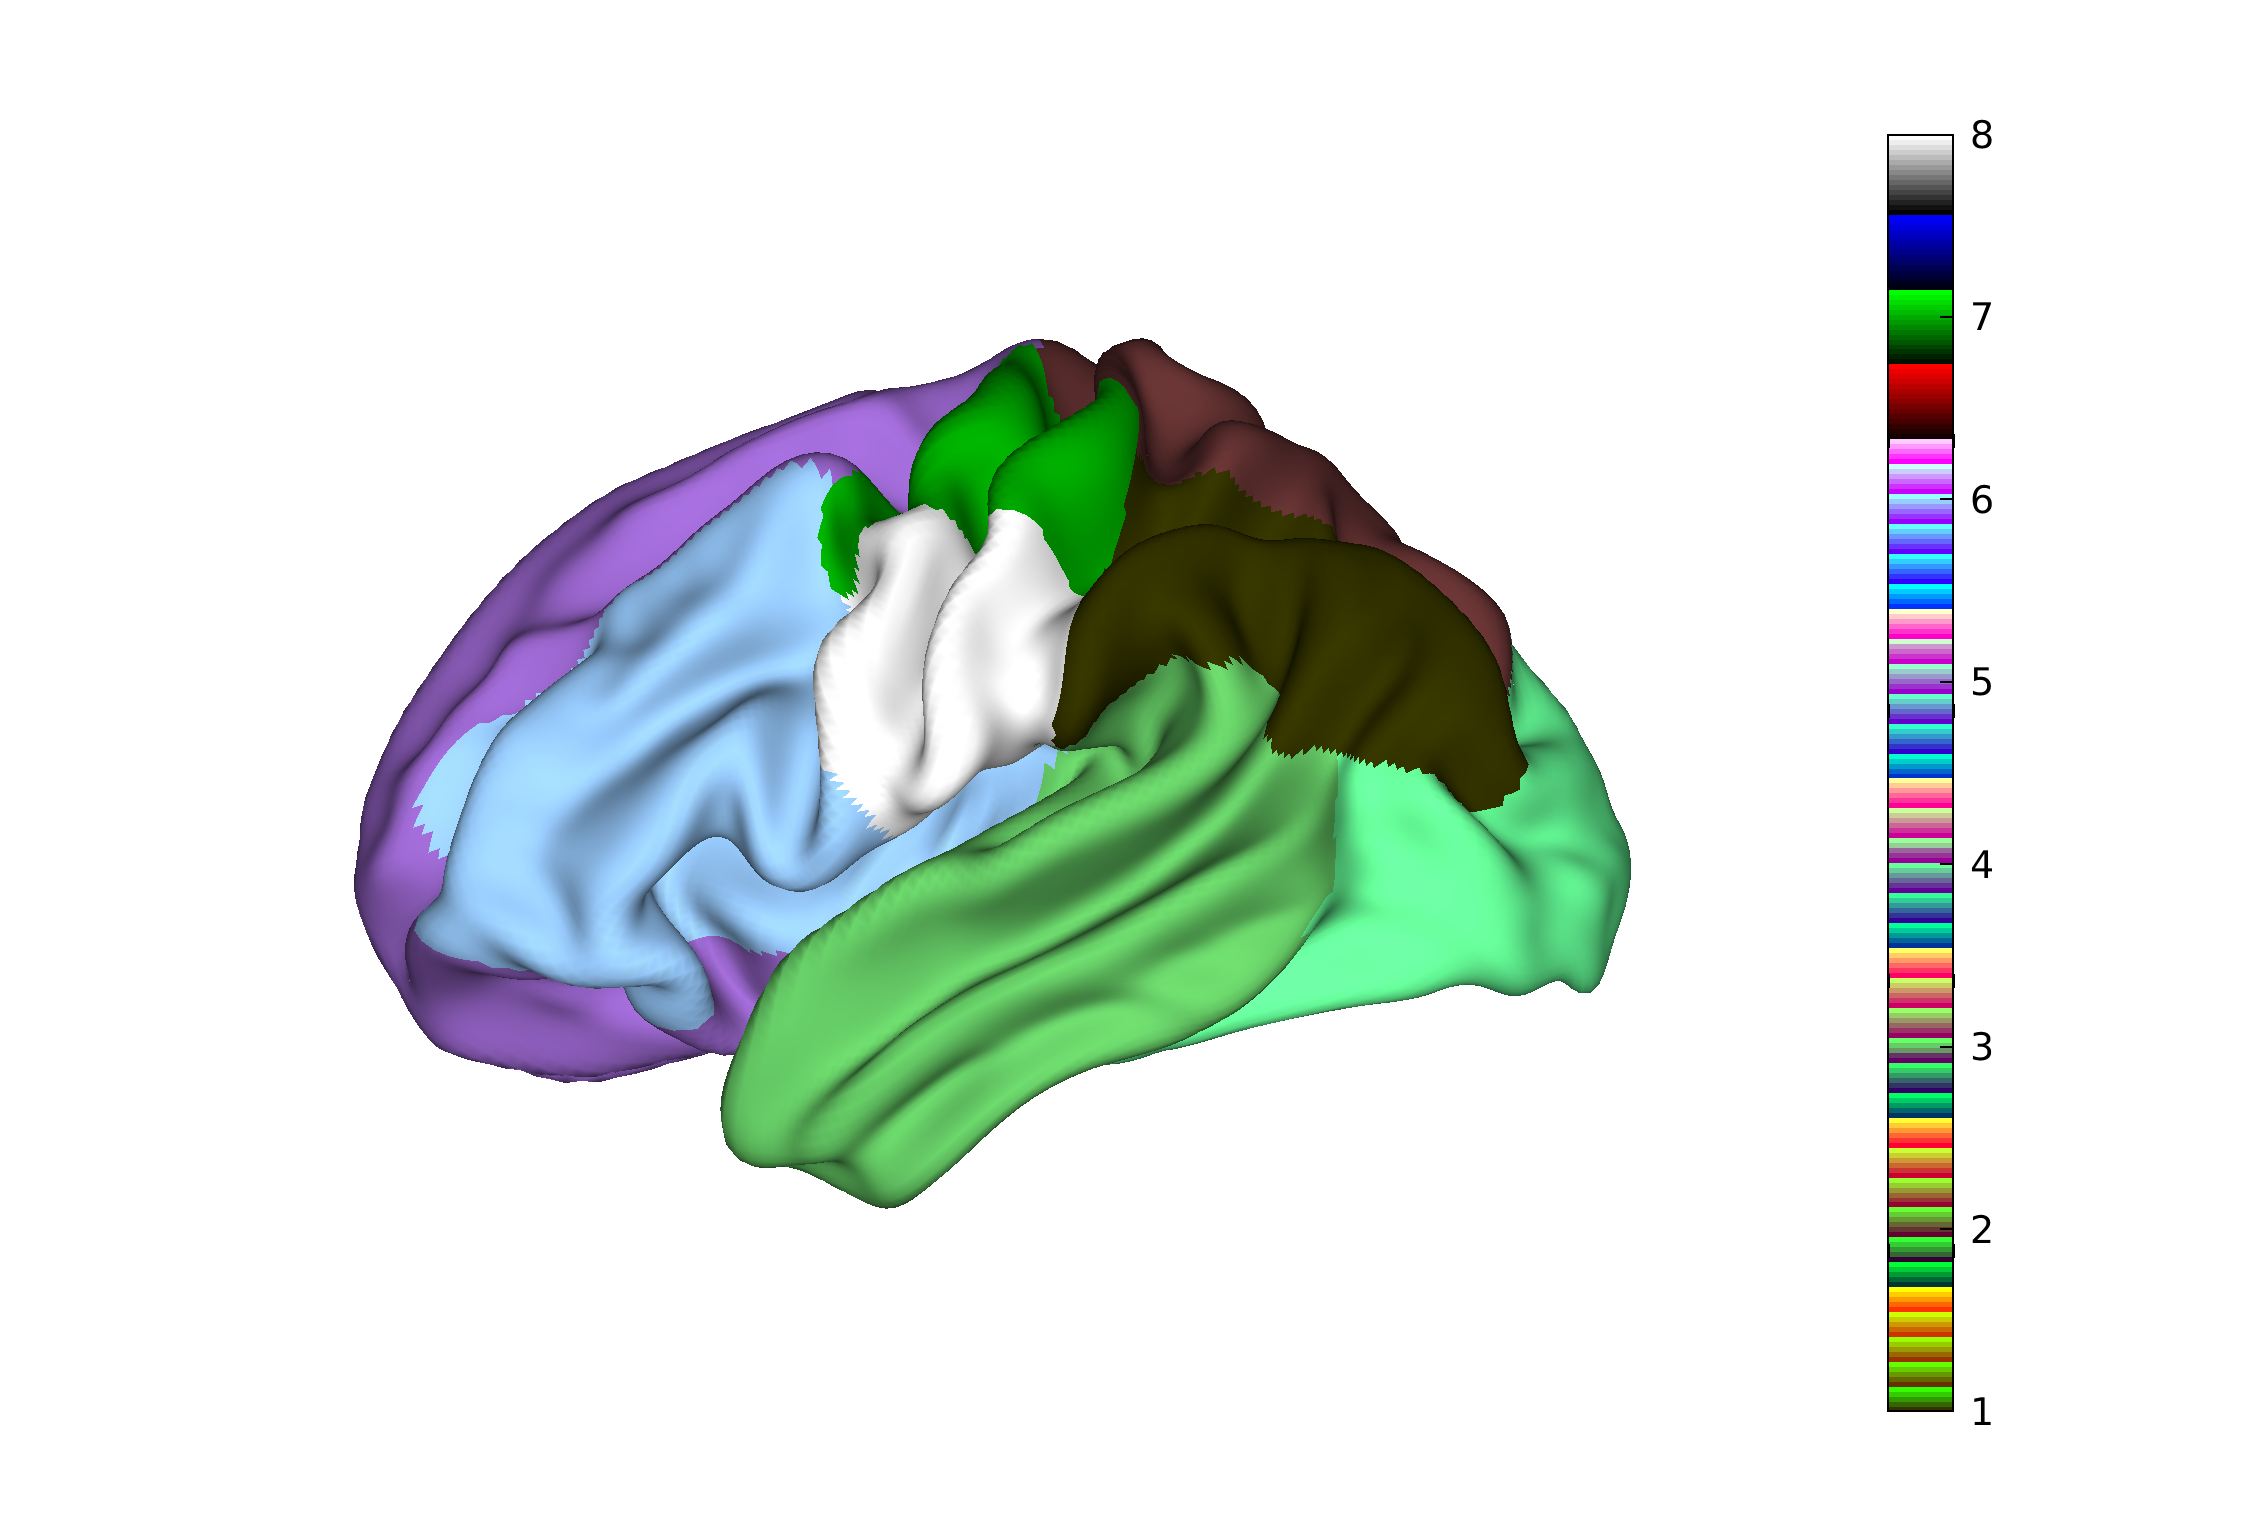
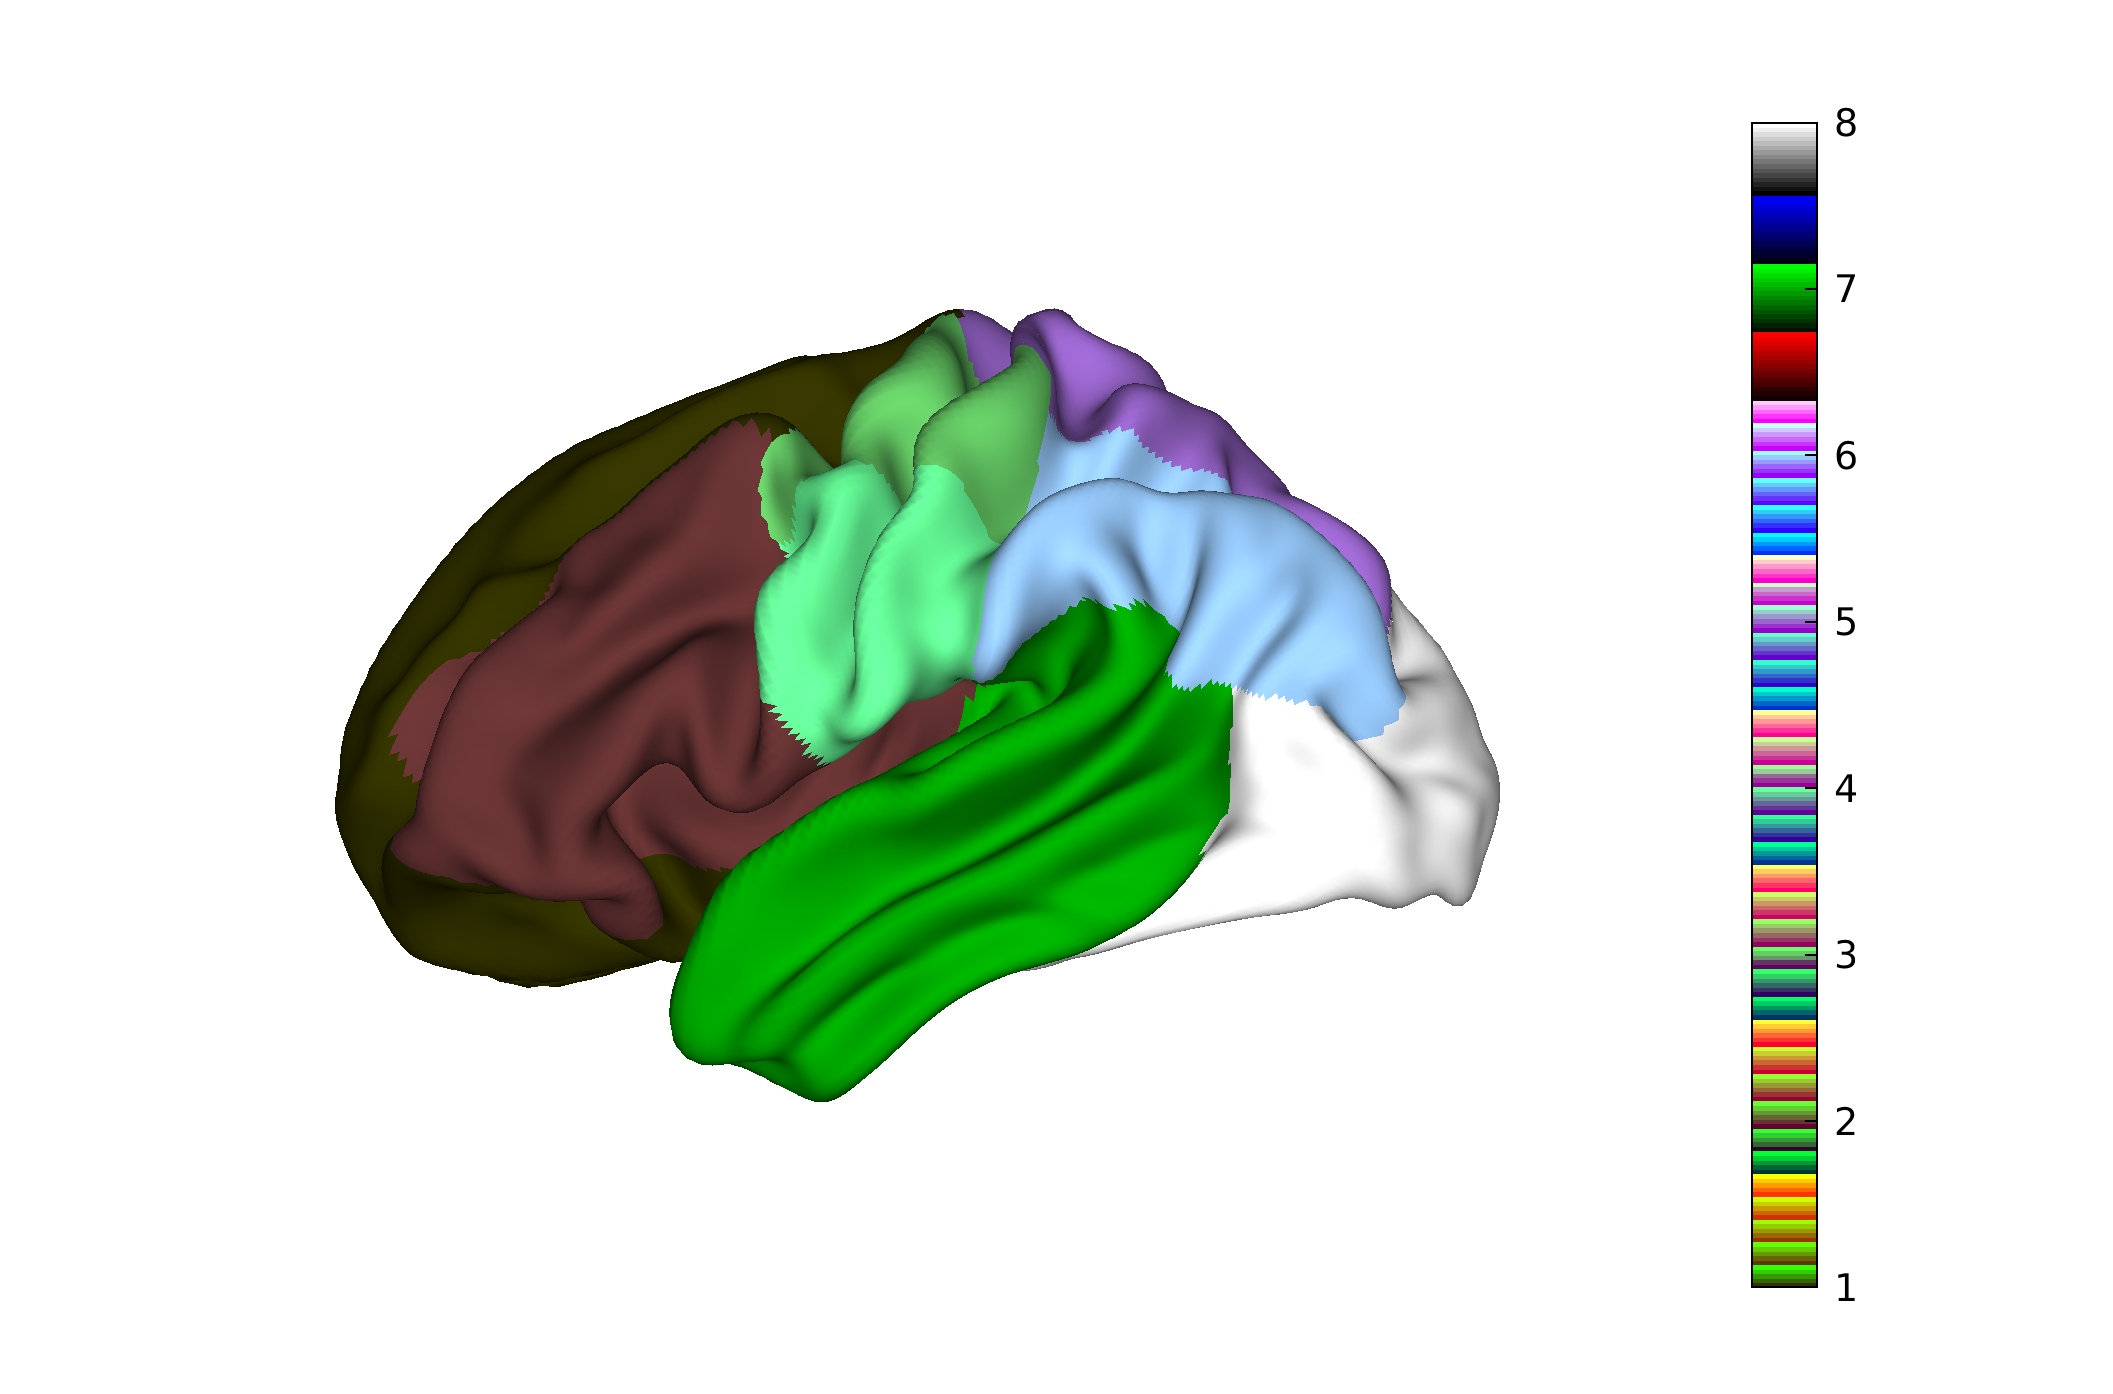
Corrected Clustering
Former-commit-id: ddf59ffe960da26f0da722aef8c1e6fc48834ae4

Changed region(s): [[0.1562, 0.2159, 0.7184, 0.802], [0.8121, 0.0617, 0.8746, 0.9254]]

diff --git a/matlab/hierarchicalClustering.m b/matlab/hierarchicalClustering.m
@@ -1,4 +1,4 @@
-function clusteringResult = hierarchicalClustering(similarityMat, numberOfLevels, useNormSym, eigVectorsNum, seed, eps)
+function clusteringResult = hierarchicalClustering(similarityMat, numberOfLevels, useNormSym, eigVectorsNum, seed, eps, runs)
 % A: Input Array Landmarks of size numSamples x 3 x numLandmarks
 % numberOfLevels: Number of levels of partitioning, defaults to 5
 % useNormSym: Whether to use or not symmetric Laplacian Normalization, defaults to true
@@ -12,9 +12,8 @@ function clusteringResult = hierarchicalClustering(similarityMat, numberOfLevels
 if nargin<6
     eps = 1e-7;
 end
-if nargin>=5
-    rng(seed);
-end
+if nargin < 7, runs = 50; end
+if nargin>=5, rng(seed); end
 if nargin<4
     eigVectorsNum = 2;
 end
@@ -32,77 +31,73 @@ if nargin<3
 end
 
 
-clusteringResult = recursivePartition(similarityMat, numberOfLevels, 1:size(similarityMat,1), eigVectorsNum, useNormSym, eps);
+clusteringResult = recursivePartition(similarityMat, numberOfLevels, 1:size(similarityMat,1), 1:size(similarityMat,1), eigVectorsNum, useNormSym, eps, runs);
 end
 
-    function ret = recursivePartition(similarityMat, count, indices, eigVectorsNum, useNormSym, eps)
-        if isnan(indices)
-            indices = 1:size(similarityMat,1);
-        end
-        ret.indices = indices;
-        ret.parts = {};
-        if length(indices)<eigVectorsNum
-            return
-        end
-        if count > 0
-            disp(['Level ' num2str(count)]);
-            %2. Compute Laplacian Matrix
-            degreeMat = sparse(1:size(similarityMat,1), 1:size(similarityMat,1), sum(similarityMat,1));
-            laplacianMat = degreeMat - similarityMat;
-            
-            %3.Compute Normalized Laplacian Matrix
-            if ~useNormSym
-                invDegreeMat = 1./max(eps, degreeMat);
-                normalizedLaplacianMat = laplacianMat * invDegreeMat ;
-                
-            else % Compute Normalized Symmetric Laplacian Matrix
-                sqrtInvDegreeMat = 1./max(eps, sqrt(degreeMat));
-                normalizedLaplacianMat = sqrtInvDegreeMat * laplacianMat * sqrtInvDegreeMat;
-            end
-            %4. Find the eigenvectors of the Normalized Symmetric Laplacian Matrix
-            
-            sv = randn(size(normalizedLaplacianMat,1),1); % pass random vector to eigs so that to get reproducible results (if using rng from Matlab)
-            
-            [V,~] = eigs(double(normalizedLaplacianMat),eigVectorsNum,1e-10,'StartVector',sv);
-            
-            if useNormSym
-                %Normalize V so that rows sum to 1
-                vnorm = vecnorm(V,2,2); % Use vecnorm for improved numerical precision
-                nonZeroVNorm = vnorm > 0;
-                vnorm(~nonZeroVNorm) = 0;
-                if any(nonZeroVNorm)
-                    V(nonZeroVNorm,:) = V(nonZeroVNorm,:)./vnorm(nonZeroVNorm);
-                end
-            end
-            
-            
+function ret = recursivePartition(similarityMat, count, indices, rootIndices, eigVectorsNum, useNormSym, eps, runs)
+if isnan(indices)
+    indices = 1:size(similarityMat,1);
+end
+ret.indices = indices;
+ret.rootIndices = rootIndices;
+ret.parts = {};
+if length(indices)<eigVectorsNum
+    return
+end
+if count > 0
+    disp(['Level ' num2str(count)]);
+    similarityMat(eye(size(similarityMat,1))==1) = 0;
+    %1. Compute Laplacian Matrix
+    degreeMat = sparse(1:size(similarityMat,1), 1:size(similarityMat,1), sum(similarityMat,1));
+    laplacianMat = degreeMat - similarityMat;
+    
+    %2.Compute Normalized Laplacian Matrix
+    if ~useNormSym
+        invDegreeMat = 1./max(eps, degreeMat);
+        normalizedLaplacianMat = laplacianMat * invDegreeMat ;
         
-        
-        x = V';
-        [split,~] = kmeans(x,2);
-        if any(split == 2)
-            if sum(split == 1)>sum(split == 2)
-                c1 = 1;
-                c2 = 2;
-            else
-                c1 = 2;
-                c2 = 1;
-            end
-            lab1 = find(split == 1);
-            lab2 = find(split == 2);
-            ret.parts{c1} = recursivePartition(similarityMat(lab1,lab1), count-1, indices(split==1), eigVectorsNum, useNormSym, eps);
-            ret.parts{c2} = recursivePartition(similarityMat(lab2,lab2), count-1, indices(split==2), eigVectorsNum, useNormSym, eps);
+    else % Compute Normalized Symmetric Laplacian Matrix
+        sqrtInvDegreeMat = spdiags(1./max(eps, sqrt(diag(degreeMat))), 0, size(similarityMat,1),  size(similarityMat,1));
+        normalizedLaplacianMat = sqrtInvDegreeMat * laplacianMat * sqrtInvDegreeMat;
+    end
+    %3. Find the eigenvectors of the Normalized Symmetric Laplacian Matrix
+    
+    sv = randn(size(normalizedLaplacianMat,1),1); % pass random vector to eigs so that to get reproducible results (if using rng from Matlab)
+    
+    [V,~] = eigs(double(normalizedLaplacianMat),eigVectorsNum, eps, 'StartVector',sv);
+    
+    if useNormSym
+        %Normalize V so that rows sum to 1
+        V = bsxfun(@rdivide, V, sqrt(sum(V.^2, 2))); 
+    end
+    x = V';
+    cost = +Inf;
+    k = 2;
+    for i=1:runs
+        [split,~,c] = myKmeans(x,k);
+        if c < cost
+            s_opt = split;
+            cost = c;
         end
     end
+    split = s_opt;
+    lab1 = find(split == 1);
+    lab2 = find(split == 2);
+    ret.parts{1} = recursivePartition(similarityMat(lab1,lab1), count-1, lab1, rootIndices(lab1), eigVectorsNum, useNormSym, eps, runs);
+    ret.parts{2} = recursivePartition(similarityMat(lab2,lab2), count-1, lab2, rootIndices(lab2), eigVectorsNum, useNormSym, eps, runs);
+end
 end
 
 
 
-function [L,C] = kmeans(X,k)
+
+
+function [L,C,cost] = myKmeans(X,k)
 %KMEANS Cluster multivariate data using the k-means++ algorithm.
 %   [L,C] = kmeans(X,k) produces a 1-by-size(X,2) vector L with one class
 %   label per column in X and a size(X,1)-by-k matrix C containing the
 %   centers corresponding to each class.
+
 %   Version: 2013-02-08
 %   Authors: Laurent Sorber (Laurent.Sorber@cs.kuleuven.be)
 %
@@ -113,7 +108,6 @@ function [L,C] = kmeans(X,k)
 %       and J. Neyman, eds., vol. 1, UC Press, 1967, pp. 281-297.
 %   [2] D. Arthur and S. Vassilvitskii, "k-means++: The Advantages of
 %       Careful Seeding", Technical Report 2006-13, Stanford InfoLab, 2006.
-% _CITE: Laurent S (2021). k-means++ (https://www.mathworks.com/matlabcentral/fileexchange/28804-k-means), MATLAB Central File Exchange. Retrieved September 8, 2021.
 L = [];
 L1 = 0;
 while length(unique(L)) ~= k
@@ -133,9 +127,9 @@ while length(unique(L)) ~= k
     while any(L ~= L1)
         L1 = L;
         for i = 1:k, l = L==i; C(:,i) = sum(X(:,l),2)/sum(l); end
-        [~,L] = max(bsxfun(@minus,2*real(C'*X),dot(C,C,1).'),[],1);
+        [m,L] = max(bsxfun(@minus,2*real(C'*X),dot(C,C,1).'),[],1);
+        cost = -1*sum(m);
     end
-    
 end
 end
 

diff --git a/matlab/hierarchicalClusteringDemo.m b/matlab/hierarchicalClusteringDemo.m
@@ -235,8 +235,73 @@ mkdir(fullfile(figdir));
 % clear DATA;
 %%
 
-numLevels = 3;
+numLevels = 4;
 clustered = hierarchicalClustering(similarityMat,numLevels,true,3,seed);
+%%
 fig = paintClusters(clustered, preprocTemplate, numLevels);
 savefig(fig, [RESULTS_DIR 'clustering_' selection '.fig']);
 saveas(fig, [RESULTS_DIR 'clustering_' selection '.png']);
+
+%%
+clusterVec = getClustersAsVec(clustered);
+%%
+clusters = unique(clusterVec);
+features = zeros(length(clusters), 3, nSamples);
+centers = zeros(length(clusters),3);
+for i=1:length(clusters)
+    features(i, :, :) = mean(A(clusterVec == clusters(i), :, :), 1);
+    centers(i, :) = mean(template.Vertices(clusterVec==clusters(i), :), 1);
+end
+save([RESULTS_DIR 'Segmentation/', selection 'clusters_info.mat'], 'clusterVec','features','centers','-v7.3');
+%%
+%Try to show the behavior of clustered regions in 3D
+
+localBehaviors = zeros(length(clusters),3, 3);
+for i=1:length(clusters)
+    localBehaviors(i,:, :) = pca(squeeze(features(clusters(i), :, :))', 'NumComponents',3);
+end
+fig = figure;
+ax = gca;
+hold on
+quiver3(ax, centers(:,1), centers(:,2), centers(:,3), localBehaviors(:, 1, 1), localBehaviors(:, 2, 1), localBehaviors(:,3,1), 'LineWidth', 3);
+quiver3(ax, centers(:,1), centers(:,2), centers(:,3), localBehaviors(:, 1, 2), localBehaviors(:, 2, 2), localBehaviors(:,3,2), 'LineWidth', 3);
+quiver3(ax, centers(:,1), centers(:,2), centers(:,3), localBehaviors(:, 1, 3), localBehaviors(:, 2, 3), localBehaviors(:,3,3), 'LineWidth', 3);
+legend('PC1', 'PC2', 'PC3');
+hold off
+brainShape = clone(template);
+brainShape.RenderAxes = gca;
+brainShape.Visible=true;
+brainShape.ViewMode = 'SolidWireframe';
+brainShape.Material = 'Dull';
+axis equal
+axis off
+set(fig, 'color', 'none');
+set(ax, 'color', 'none');
+view(90, 0)
+saveas(fig, [RESULTS_DIR 'clusterPCA_' selection '_interior.png']);
+view(-90, 0)
+saveas(fig, [RESULTS_DIR 'clusterPCA_' selection '_exterior.png']);
+
+
+
+%%
+feats = reshape(features, [], nSamples);
+if nRep == 1
+    phenoT = table(preprocPhenoIID, preprocPhenoIID, feats); %familyID,individualID,Phenotypes (to be controlled with mpheno argument)
+    writetable(phenoT,[RESULTS_DIR 'genomic/' selection '_pheno.txt'],'WriteVariableNames',false,'Delimiter',' ');
+end
+
+%%
+
+function clusterVec = getClustersAsVec(clustered)
+    clusterVec = ones(1,length(clustered.indices));
+    if ~isempty(clustered.parts)
+        part1 = getClustersAsVec(clustered.parts{1});
+        part2 = getClustersAsVec(clustered.parts{2}) + max(part1);
+        clusterVec(clustered.parts{1}.indices) = part1;
+        clusterVec(clustered.parts{2}.indices) = part2;
+    end
+end
+
+
+

diff --git a/matlab/paintClusters.m b/matlab/paintClusters.m
@@ -31,7 +31,7 @@ else
     newCenter = [0,0];
 end
 
-ret.handle= paintSingle(clustered.indices, template, convertToFigureSpace(axpos, ydir, xl, yl, [0.5,0.5] + newCenter), offsetR/4);
+ret.handle= paintSingle(clustered.rootIndices, template, convertToFigureSpace(axpos, ydir, xl, yl, [0.5,0.5] + newCenter), offsetR/4);
 if numel(clustered.parts)>0
     [ret.parts{1}, polarPoints]  = paintRecursive(pax, xl, yl, axpos, ydir, clustered.parts{1}, template,  polarPoints, newCenter,  offsetR, level+1);
     [ret.parts{2}, polarPoints]  = paintRecursive(pax, xl, yl, axpos, ydir, clustered.parts{2}, template,  polarPoints, newCenter,  offsetR, level+1);
@@ -54,7 +54,7 @@ end
 xycFigNorm = axpos(1:2) + axpos(3:4).*xycNorm; %normalized to figure
 end
 
-function shape =paintSingle(indices, template,  center, axisSize)
+function shape =paintSingle(rootIndices, template,  center, axisSize)
 ax(1) = axes('pos',[center(1) - axisSize,  center(2) - axisSize/2, axisSize, axisSize]);
 ax(2) = axes('pos',[center(1) ,  center(2) - axisSize/2, axisSize, axisSize]);
 view(ax(1), 90, 0);
@@ -65,7 +65,7 @@ for i=1:2
     shape =  shape3D;
     shape.Vertices = template.Vertices;
     shape.VertexRGB = 0.5 * ones(size(shape.Vertices));
-    shape.VertexRGB(indices, 2) = 1;
+    shape.VertexRGB(rootIndices, 2) = 1;
     shape.Faces = template.Faces;
     shape.Material = 'Dull';
     shape.ViewMode = 'solid';

diff --git a/matlab/genomeDemo.m b/matlab/genomeDemo.m
@@ -3,5 +3,9 @@ chr = 1;
 
 obj = SNPLIB();
 obj.nThreads = 8;
-[snps, samples] = obj.importPLINKDATA(['/IMAGEN/BRAIN/UKBIOBANK/GENOTYPES/PLINKSELECTEDFILTERED/ukb_img_maf0.01_geno0.5_hwe1e-6_sel19908_chr' num2str(chr)]);
+[snps, samples] = obj.importPLINKDATA(['../SAMPLE_DATA/IMAGEN/BRAIN/UKBIOBANK/GENOTYPES/PLINK/ukb_img_maf0.01_geno0.5_hwe1e-6_sel19908_chr' num2str(chr)]);
 geno = obj.UnpackGeno();
+%%
+af = obj.CalcAlleleFrequency();
+%%
+grm = obj.CalcGRMMatrix();
